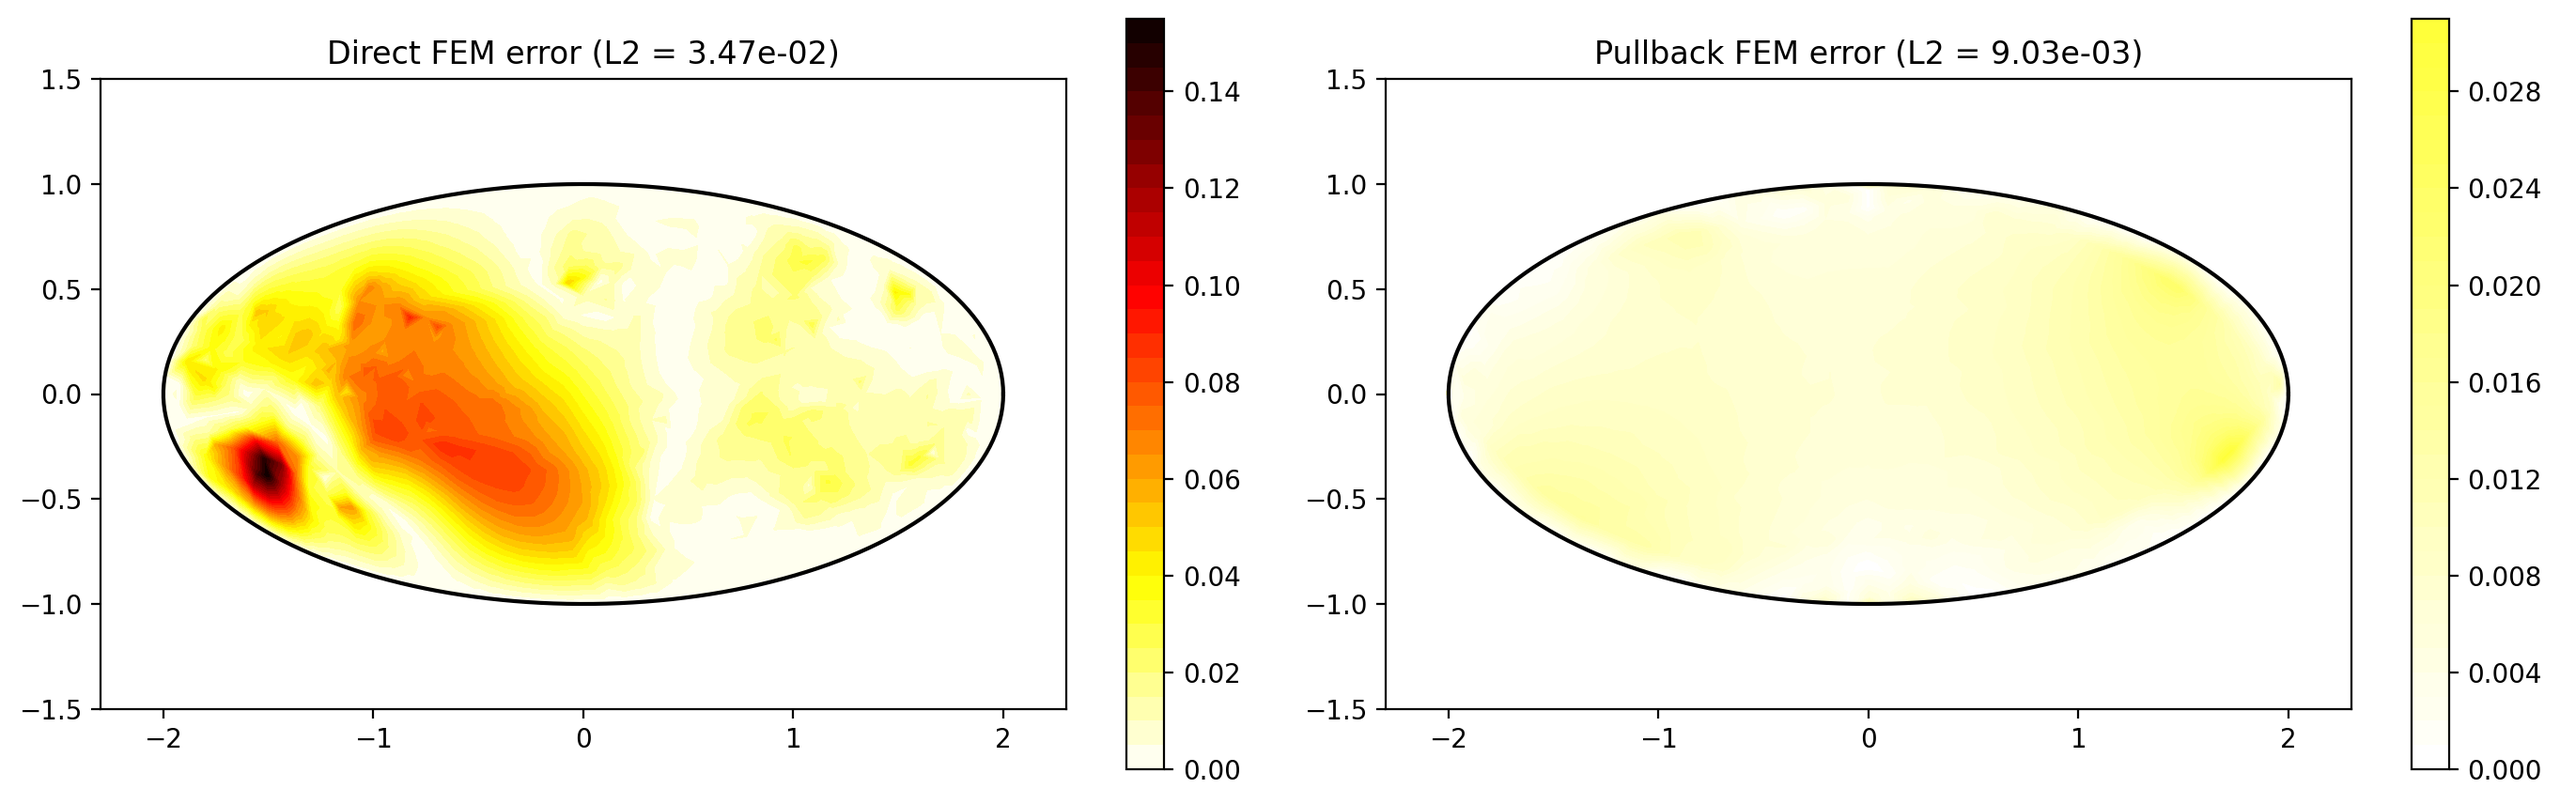
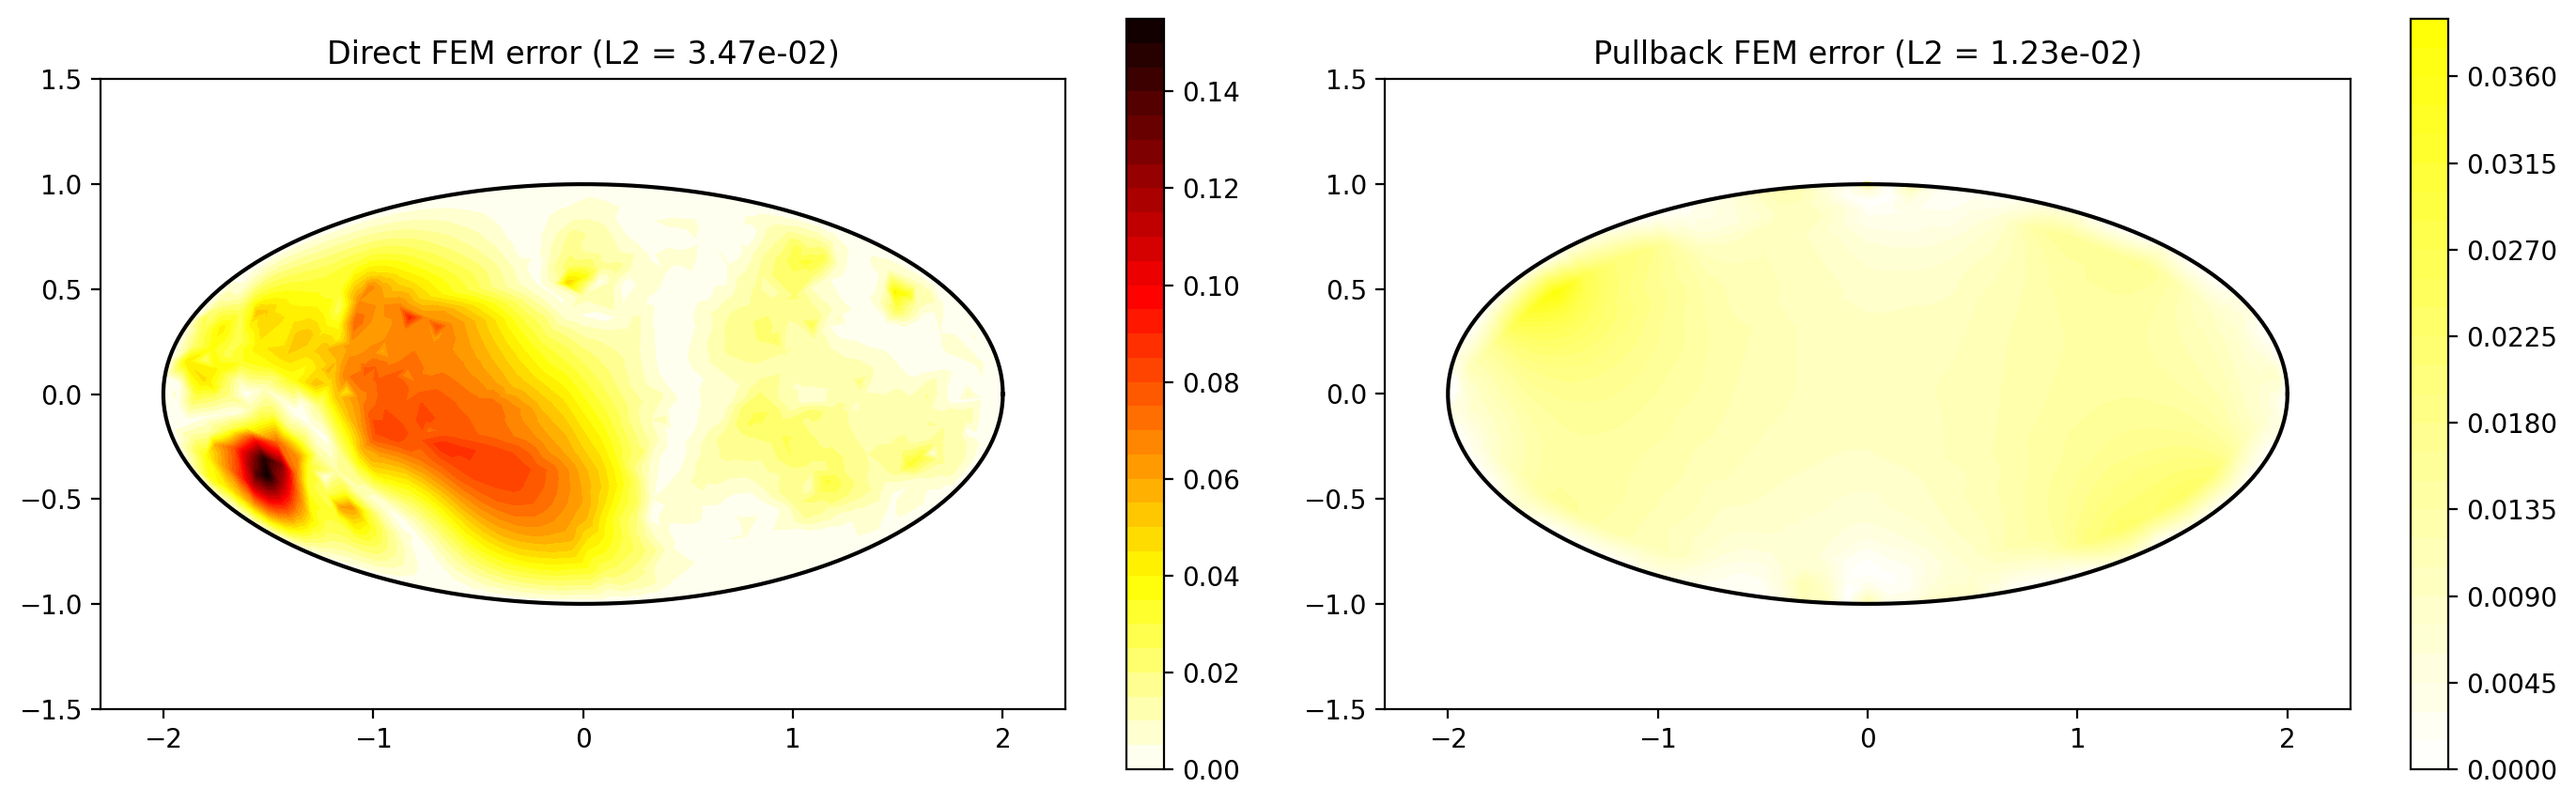
code update

diff --git a/examples/fem/deep_beam_plane_stress.py b/examples/fem/deep_beam_plane_stress.py
@@ -1,0 +1,210 @@
+"""
+Plane-stress simply-supported deep beam (Final-Project SFEM course 2025-2026).
+
+    L = 4 m, h = 2 m, thickness t = 0.20 m,  E = 1e5 MPa,  nu = 0.3
+    uniform top pressure  q = 20 kN/m  (line load along the top edge, downward)
+    pinned at the bottom-left corner, roller at the bottom-right corner.
+
+The mesh is a structured 40 x 20 Quad4 grid generated with gmsh (transfinite +
+recombine). The stiffness is assembled with the library's FEMAssembler; we add
+the top-edge load and the supports, solve the direct problem, report the vertical
+displacement at mid-span, and plot the deformed shape (shown only, never saved).
+
+Run:
+    python examples/fem/deep_beam_plane_stress.py
+"""
+
+import numpy as np
+import matplotlib.pyplot as plt
+from matplotlib.collections import PolyCollection
+
+# ---- Simulacrum reusables -------------------------------------------------
+from simulacrum.mesh.mesh import Mesh, ElementBlock
+from simulacrum.core.domain import Domain
+from simulacrum.materials.linear_elastic import PlaneStress
+from simulacrum.boundary import DirichletBC, apply_dirichlet_elimination
+from simulacrum.solvers.linear import DirectSolver
+from simulacrum.discretization.fem.assembler import FEMAssembler
+
+# ===========================================================================
+# Problem data  (given in the project sheet; converted to SI: N, m, Pa)
+# ===========================================================================
+L         = 4.0            # beam length            [m]
+H         = 2.0            # beam height            [m]
+THICKNESS = 0.20           # out-of-plane thickness [m]
+E_YOUNG   = 1.0e5          # 1e5 kPa  
+NU        = 0.3
+Q_LOAD    = 20.0           # 20 kN/m  
+
+NX, NY    = 40, 20         # elements along L and H  (40 x 20 Quad4)
+TOL       = 1e-8
+
+
+# ===========================================================================
+# Mesh:  structured Quad4 rectangle via gmsh (transfinite + recombine)
+# ===========================================================================
+def mesh_beam_gmsh(length, height, nx, ny):
+    """Structured nx*ny Quad4 mesh of the rectangle [0,L]x[0,H] using gmsh."""
+    import gmsh
+    gmsh.initialize()
+    gmsh.option.setNumber("General.Verbosity", 1)
+    gmsh.model.add("deep_beam")
+    geo = gmsh.model.geo
+
+    p1 = geo.addPoint(0.0,    0.0,    0.0)
+    p2 = geo.addPoint(length, 0.0,    0.0)
+    p3 = geo.addPoint(length, height, 0.0)
+    p4 = geo.addPoint(0.0,    height, 0.0)
+    l1 = geo.addLine(p1, p2)   # bottom
+    l2 = geo.addLine(p2, p3)   # right
+    l3 = geo.addLine(p3, p4)   # top
+    l4 = geo.addLine(p4, p1)   # left
+    cl = geo.addCurveLoop([l1, l2, l3, l4])
+    surf = geo.addPlaneSurface([cl])
+    geo.synchronize()
+
+    # exactly nx x ny quads
+    gmsh.model.mesh.setTransfiniteCurve(l1, nx + 1)
+    gmsh.model.mesh.setTransfiniteCurve(l3, nx + 1)
+    gmsh.model.mesh.setTransfiniteCurve(l2, ny + 1)
+    gmsh.model.mesh.setTransfiniteCurve(l4, ny + 1)
+    gmsh.model.mesh.setTransfiniteSurface(surf)
+    gmsh.model.mesh.setRecombine(2, surf)
+    gmsh.model.mesh.generate(2)
+
+    node_tags, coords, _ = gmsh.model.mesh.getNodes()
+    node_map = {int(t): i for i, t in enumerate(node_tags)}
+    nodes = coords.reshape(-1, 3)[:, :2]
+
+    etypes, _, enodes = gmsh.model.mesh.getElements(dim=2)
+    conn = None
+    for eid, en in zip(etypes, enodes):
+        _, _, _, npe, _, _ = gmsh.model.mesh.getElementProperties(eid)
+        if npe == 4:
+            conn = np.array([node_map[int(n)] for n in en]).reshape(-1, 4)
+    assert conn is not None, "gmsh did not return Quad4 elements"
+
+    _, _, bnd_en = gmsh.model.mesh.getElements(dim=1)
+    bnd = set()
+    for en in bnd_en:
+        for n in en:
+            bnd.add(node_map[int(n)])
+    bnd = np.array(sorted(bnd), dtype=np.int64)
+
+    gmsh.finalize()
+    return Mesh(nodes=nodes, element_blocks=[ElementBlock("quad4", conn)],
+                boundary_tags={"boundary": bnd})
+
+
+# ===========================================================================
+# Assemble (via FEMAssembler) + load + supports + solve
+# ===========================================================================
+def solve_beam(mesh):
+    print(f"  Mesh: {mesh.n_nodes} nodes, {mesh.n_elements} Quad4 elements")
+
+    material = PlaneStress(E=E_YOUNG, nu=NU)
+    domain = Domain(mesh=mesh, dim=2)
+    for blk in mesh.element_blocks:                 # register material per block tag
+        domain.add_material(blk.tag, material)
+
+    asm = FEMAssembler(domain, n_components=2)
+    system = asm.assemble()                         # K = integral(B^T C B), rhs = 0
+    dof_map = asm.dof_map
+
+    K = THICKNESS * system.matrix                   # plane-stress thickness factor
+    rhs = system.rhs                                # zeros; fill with the applied load
+
+    # ---- consistent nodal load from the top-edge line load q (downward) ----
+    top = np.where(np.abs(mesh.nodes[:, 1] - H) < TOL)[0]
+    top = top[np.argsort(mesh.nodes[top, 0])]
+    for i in range(len(top) - 1):
+        n1, n2 = top[i], top[i + 1]
+        seg = mesh.nodes[n2, 0] - mesh.nodes[n1, 0]  # linear edge length
+        f = Q_LOAD * seg / 2.0                       # half to each end node
+        for n in (n1, n2):
+            uy = int(dof_map.element_dofs(np.array([n]))[1])
+            rhs[uy] -= f                             # -y : downward
+
+    # ---- supports : pin bottom-left, roller bottom-right ----
+    bl = int(np.argmin(mesh.nodes[:, 0] ** 2 + mesh.nodes[:, 1] ** 2))
+    br = int(np.argmin((mesh.nodes[:, 0] - L) ** 2 + mesh.nodes[:, 1] ** 2))
+    bcs = [
+        DirichletBC(node_ids=np.array([bl]), component=0, value=0.0),  # pin  u_x
+        DirichletBC(node_ids=np.array([bl]), component=1, value=0.0),  # pin  u_y
+        DirichletBC(node_ids=np.array([br]), component=1, value=0.0),  # roller u_y
+    ]
+    K, rhs = apply_dirichlet_elimination(K, rhs, dof_map, bcs)
+
+    u = DirectSolver().solve(K, rhs)
+    return u.reshape(-1, 2)
+
+
+# ===========================================================================
+# Deformed-shape plot  
+# ===========================================================================
+def plot_deformed(mesh, disp, scale=None):
+    nd = mesh.nodes
+    conn = mesh.element_blocks[0].connectivity
+    umag = np.sqrt((disp ** 2).sum(axis=1))
+
+    # exaggeration factor (auto: largest displacement ~8% of the beam length)
+    if scale is None:
+        scale = 0.08 * max(L, H) / (umag.max() + 1e-30)
+    defo = nd + scale * disp
+
+    fig, ax = plt.subplots(figsize=(9, 5))
+
+    # undeformed mesh (light grey)
+    ax.add_collection(PolyCollection([nd[conn[e]] for e in range(conn.shape[0])],
+                                     facecolors="none", edgecolors="0.8",
+                                     linewidths=0.4))
+    # deformed mesh, coloured by displacement magnitude
+    pc = PolyCollection([defo[conn[e]] for e in range(conn.shape[0])],
+                        array=umag[conn].mean(axis=1), cmap="viridis",
+                        edgecolors="k", linewidths=0.25)
+    ax.add_collection(pc)
+    fig.colorbar(pc, ax=ax, shrink=0.85, label="|u|  [m]")
+
+    # ---- support markers at the DEFORMED positions of the constrained nodes ----
+    bl = int(np.argmin(nd[:, 0] ** 2 + nd[:, 1] ** 2))           # pin    near (0, 0)
+    br = int(np.argmin((nd[:, 0] - L) ** 2 + nd[:, 1] ** 2))     # roller near (L, 0)
+    off = 0.01 * max(L, H)                                       # tuck the triangle just below the node
+    ax.plot(defo[[bl, br], 0], defo[[bl, br], 1] - off, "^",
+            color="firebrick", ms=11, zorder=6, clip_on=False)
+
+    pad = 0.15 * max(L, H)
+    ax.set_xlim(-pad, L + pad)
+    ax.set_ylim(-pad, H + pad)
+    ax.set_aspect("equal")
+    ax.set_xlabel("x [m]"); ax.set_ylabel("y [m]")
+    ax.set_title(f"Deep beam - deformed shape (displacements x{scale:.0f})")
+    plt.tight_layout()
+    plt.show()
+
+
+# ===========================================================================
+def main():
+    print("=" * 60)
+    print("PLANE-STRESS SIMPLY-SUPPORTED DEEP BEAM")
+    print("=" * 60)
+    print(f"  L={L} m, h={H} m, t={THICKNESS} m, E={E_YOUNG:.3e} Pa, nu={NU}")
+    print(f"  q = {Q_LOAD:.3e} N/m  (downward),  total = {Q_LOAD * L:.3e} N")
+
+    mesh = mesh_beam_gmsh(L, H, NX, NY)
+    disp = solve_beam(mesh)
+
+    # vertical displacement at mid-span, bottom edge  (the u_mid of the figure)
+    mid = int(np.argmin((mesh.nodes[:, 0] - L / 2.0) ** 2 +
+                        (mesh.nodes[:, 1] - 0.0) ** 2))
+    u_mid = disp[mid, 1]
+    print(f"\n  mid-span node at ({mesh.nodes[mid,0]:.3f}, {mesh.nodes[mid,1]:.3f}) m")
+    print(f"  vertical mid displacement  u_mid = {u_mid: .6e} m  "
+          f"= {u_mid * 1e3: .6f} mm")
+    print(f"  max |u| over the beam            = {np.sqrt((disp**2).sum(1)).max():.6e} m")
+
+    plot_deformed(mesh, disp)
+    print("\nDONE")
+
+
+if __name__ == "__main__":
+    main()

diff --git a/examples/fem/ellipse_mapped_poisson.py b/examples/fem/ellipse_mapped_poisson.py
@@ -525,6 +525,44 @@ def plot_mesh(mesh, a, b, title=None):
     plt.show()
     print("Saved poisson_mesh_{}.png".format(etype))
 
+def plot_reference_square_mesh(mesh_sq, title=None):
+    """Plot the structured Quad4 mesh on the reference square  □ = (-1,1)^2
+    (the computational mesh of the pullback/mapped FEM, before ψ maps it to Ω)."""
+    from matplotlib.collections import PolyCollection
+
+    nd = mesh_sq.nodes
+    conn = mesh_sq.element_blocks[0].connectivity
+    etype = mesh_sq.element_blocks[0].etype
+
+    fig, ax = plt.subplots(figsize=(6, 6))
+
+    # element shapes (same style as plot_mesh, works for quad4)
+    polys = [nd[conn[e]] for e in range(conn.shape[0])]
+    pc = PolyCollection(polys, edgecolors="steelblue", facecolors="none",
+                        linewidths=0.4, alpha=0.8)
+    ax.add_collection(pc)
+
+    # reference-square boundary  ∂□
+    ax.plot([-1, 1, 1, -1, -1], [-1, -1, 1, 1, -1], "k-", lw=2)
+
+    # boundary nodes (detected geometrically, so it works even if
+    # mesh_sq.boundary_tags is empty)
+    on_bnd = (np.abs(nd[:, 0]) > 1 - 1e-9) | (np.abs(nd[:, 1]) > 1 - 1e-9)
+    ax.plot(nd[on_bnd, 0], nd[on_bnd, 1], ".", color="red", ms=2, zorder=5)
+
+    ax.set_xlim(-1.15, 1.15)
+    ax.set_ylim(-1.15, 1.15)
+    ax.set_aspect("equal")
+    if title is None:
+        title = "{} reference mesh ({} elements, {} nodes)".format(
+            etype.upper(), mesh_sq.n_elements, mesh_sq.n_nodes)
+    ax.set_title(title)
+    plt.tight_layout()
+    plt.savefig(_FIG_DIR / "poisson_mesh_reference_square.png",
+                dpi=200, bbox_inches="tight")
+    plt.show()
+    print("Saved poisson_mesh_reference_square.png")
+    
 def main():
     print("=" * 60)
     print("MAPPED POISSON  (ψ: □ → Ω)")
@@ -537,6 +575,7 @@ def main():
     mesh_d, u_d = solve_direct(a, b, f_val)
     plot_mesh(mesh_d, a, b)
     mesh_sq, u_m, x_m, all_bnd = solve_mapped(mapping, a, b, f_val)
+    plot_reference_square_mesh(mesh_sq)          # <-- add this line
     visualise(mesh_d, u_d, mesh_sq, u_m, x_m, a, b, f_val, all_bnd)
     plot_individual_fields(mesh_d, u_d, mesh_sq, u_m, x_m, a, b, all_bnd)
 
